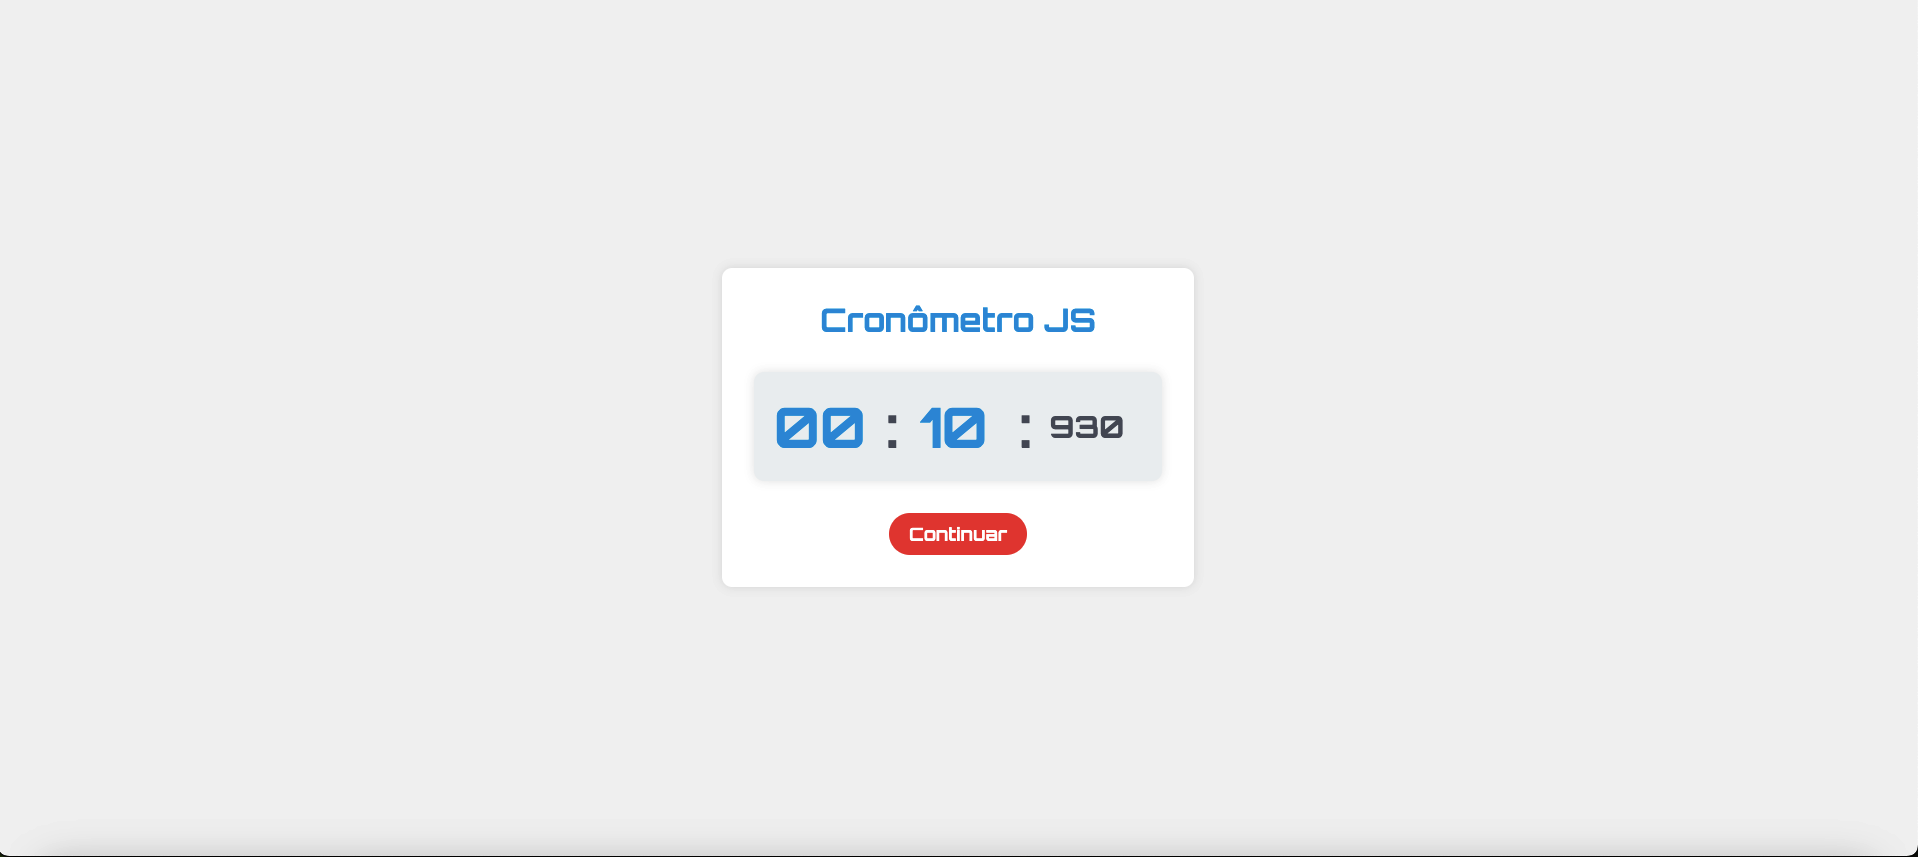
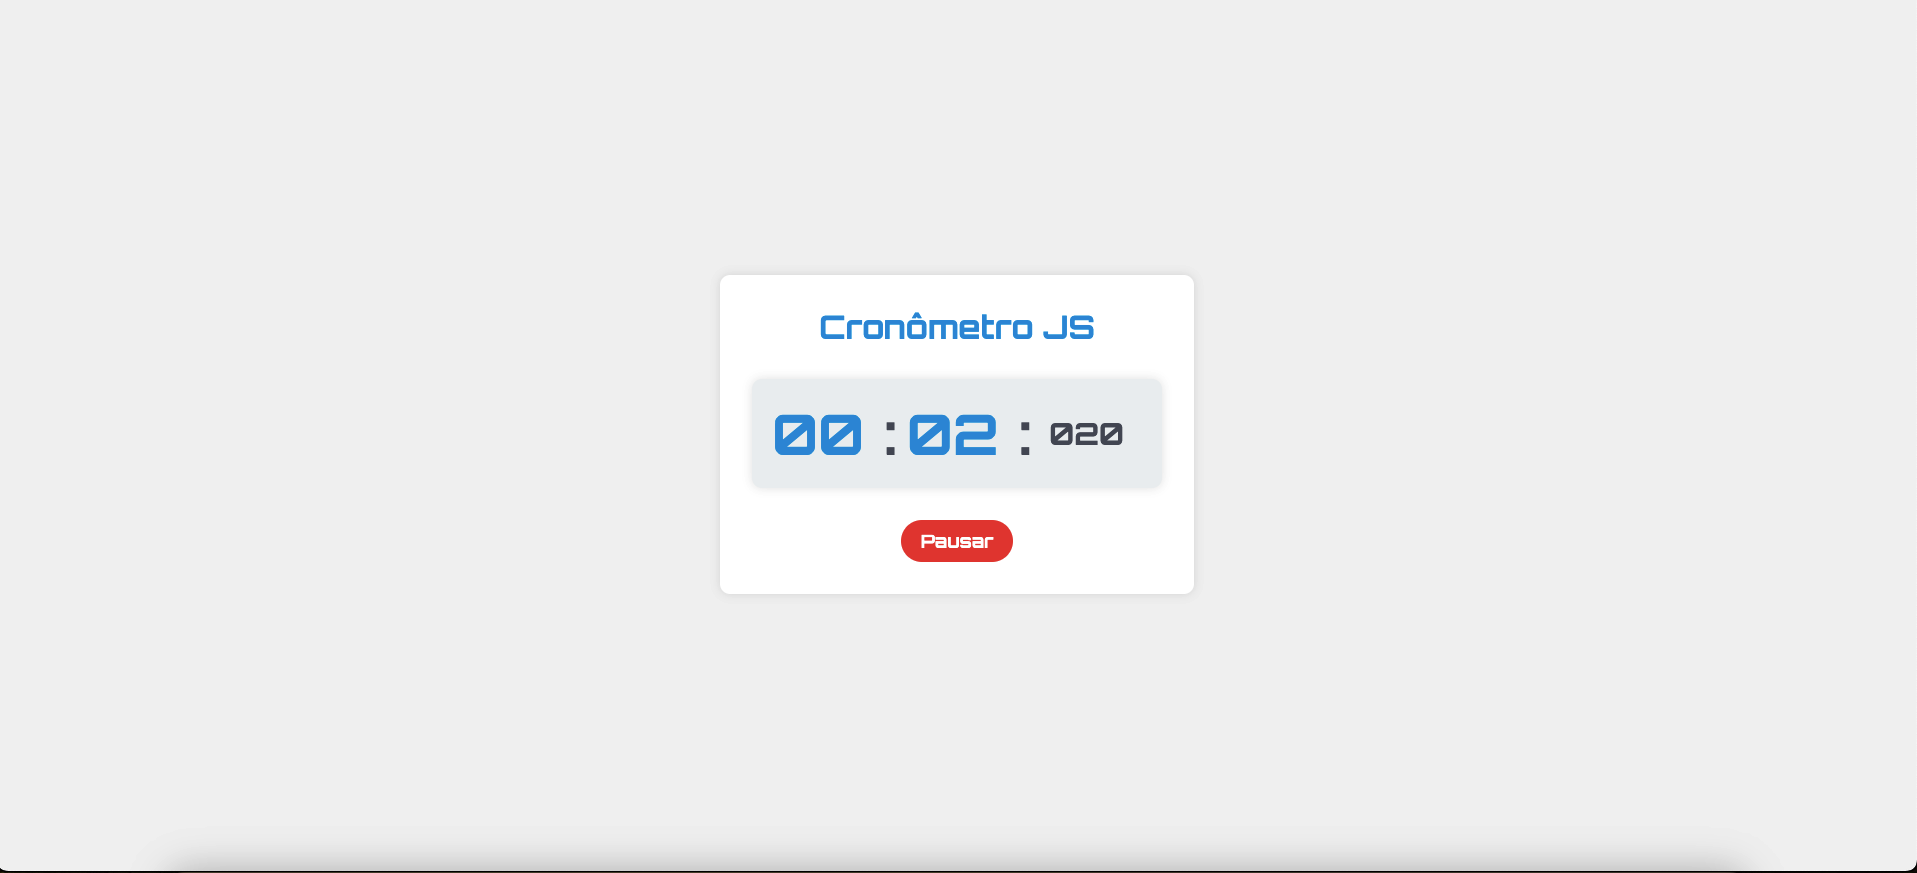
Ajustado botão reset

Changed region(s): [[0.4001, 0.5764, 0.6155, 0.6978], [0.4001, 0.4551, 0.5848, 0.5461], [0.4309, 0.3641, 0.5848, 0.3944]]

diff --git a/script.js b/script.js
@@ -1,0 +1,91 @@
+// Selecionando elementos do DOM (HTML) usando seus IDs
+const minutesEl = document.querySelector("#minutes"); // Elemento de minutos
+const secondsEl = document.querySelector("#seconds"); // Elemento de segundos
+const milisecondsEl = document.querySelector("#miliseconds"); // Elemento de milissegundos
+const startBtn = document.querySelector("#startBtn"); // Botão de Iniciar
+const pauseBtn = document.querySelector("#pauseBtn"); // Botão de Pausar
+const resumeBtn = document.querySelector("#resumeBtn"); // Botão de Continuar
+const resetBtn = document.querySelector("#resetBtn"); // Botão de Resetar
+
+// Variáveis para controlar o cronômetro
+let interval; // Para armazenar o intervalo do cronômetro
+let minutes = 0; 
+let seconds = 0; 
+let miliseconds = 0;
+let isPaused = false; // Indicador de pausa
+
+// Adicionando event listeners aos botões
+startBtn.addEventListener("click", startTimer); // Iniciar o cronômetro
+pauseBtn.addEventListener("click", pauseTimer); // Pausar o cronômetro
+resumeBtn.addEventListener("click", resumeTimer); // Continuar o cronômetro
+resetBtn.addEventListener("click", resetTimer); // Resetar o cronômetro
+
+function startTimer() {
+    // Iniciar o intervalo do cronômetro
+    interval = setInterval(() => {
+        if (!isPaused) {
+            miliseconds += 10;
+
+            if (miliseconds === 1000) {
+                seconds++;
+                miliseconds = 0;
+            }
+            if (seconds === 60) {
+                minutes++;
+                seconds = 0;
+            }
+            // Atualizar os elementos HTML com os valores do cronômetro
+            minutesEl.textContent = formatTime(minutes);
+            secondsEl.textContent = formatTime(seconds);
+            milisecondsEl.textContent = formatMiliseconds(miliseconds);
+        }
+    }, 10);
+
+    // Atualizar a exibição dos botões
+    startBtn.style.display = "none";
+    pauseBtn.style.display = "block";
+}
+
+function pauseTimer() {
+    // Pausar o cronômetro
+    isPaused = true;
+    pauseBtn.style.display = "none";
+    resumeBtn.style.display = "block";
+    resetBtn.style.display = "block";
+}
+
+function resumeTimer() {
+    // Continuar o cronômetro
+    isPaused = false;
+    resumeBtn.style.display = "none";
+    pauseBtn.style.display = "block";
+    resetBtn.style.display = "block";
+}
+
+function resetTimer() {
+    // Resetar o cronômetro
+    clearInterval(interval);
+    minutes = 0;
+    seconds = 0;
+    miliseconds = 0;
+
+    // Atualizar os elementos HTML com os valores zerados
+    minutesEl.textContent = "00";
+    secondsEl.textContent = "00";
+    milisecondsEl.textContent = "000";
+
+    // Atualizar a exibição dos botões
+    startBtn.style.display = "block";
+    pauseBtn.style.display = "none";
+    resumeBtn.style.display = "none";
+}
+
+// Função para formatar o tempo com zero à esquerda, se necessário
+function formatTime(time) {
+    return time < 10 ? `0${time}` : time;
+}
+
+// Função para formatar os milissegundos com zero à esquerda, se necessário
+function formatMiliseconds(time) {
+    return time < 100 ? `${time}`.padStart(3, "0") : time;
+}
